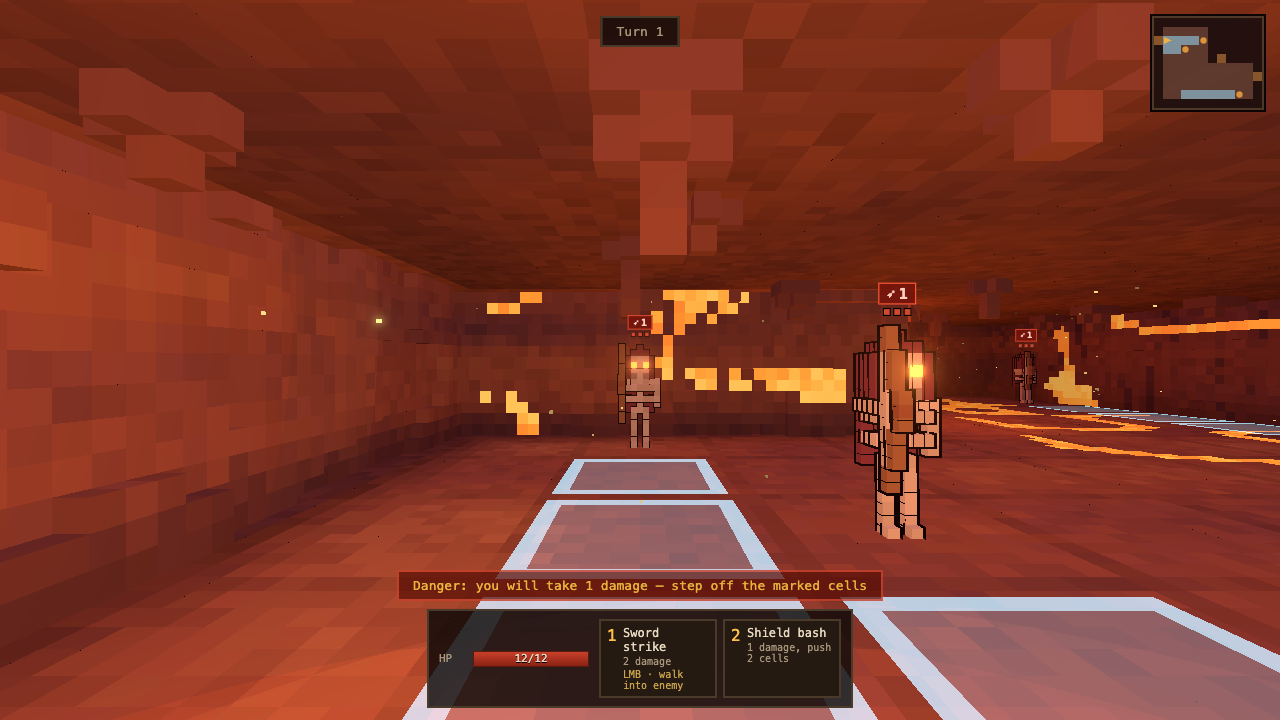
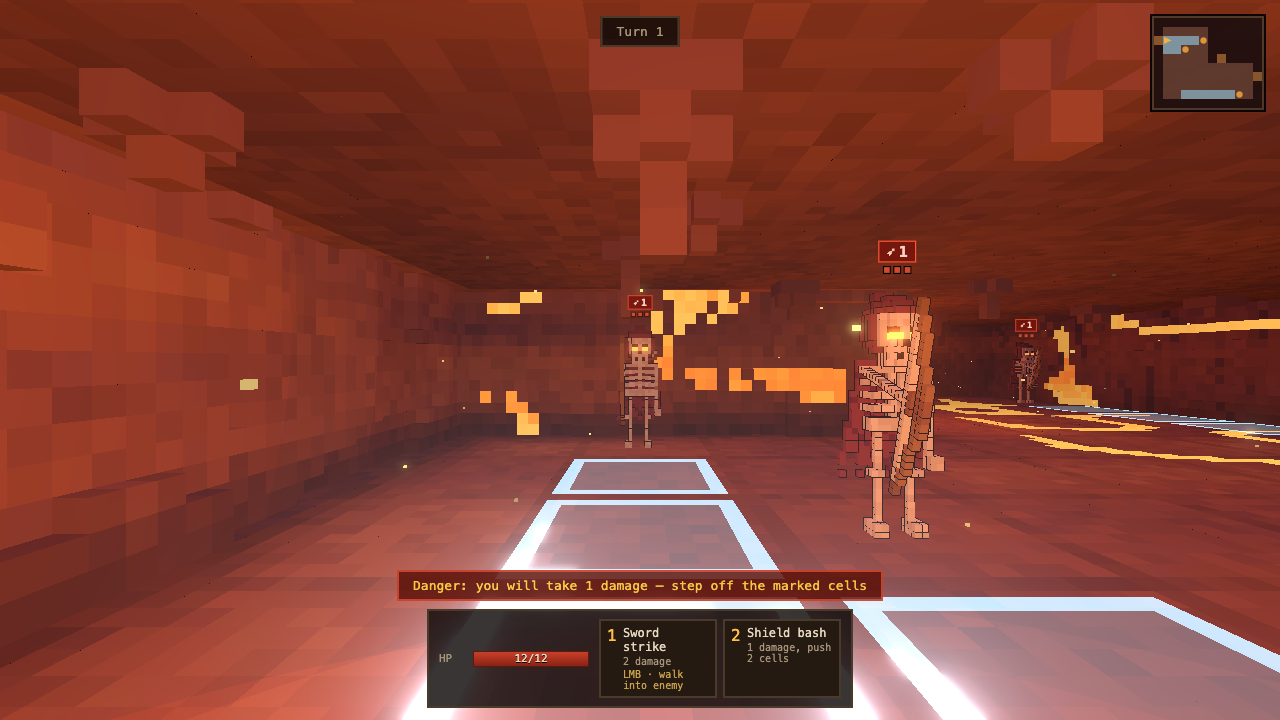
render: more detailed skeletons, thin outline
Models at 0.05 voxels (about twice the resolution): real leg bones, pelvis,
spine, ribcage, collarbones, a skull with sockets, nose and jaw; warrior with
helmet, pauldron, planked shield and long sword; archer with hood, ragged
cape, quiver and curved bow. The thick black outline blurred the silhouette:
it is now a thin dark maroon line.

diff --git a/src/render/voxel/models.ts b/src/render/voxel/models.ts
@@ -25,99 +25,195 @@ export interface VoxelModel {
   readonly poses: { readonly idle: number; readonly windup: number; readonly strike: number };
 }
 
-const BONE = [1, 2, 3];
-const DARK_BONE = 4;
+/** About 34 voxels from feet to crown: roughly 1.7 world units. */
+const VOXEL = 0.05;
+
+// Palette indices.
+const BONE = [1, 2, 3] as const;
+const BONE_DARK = 4;
 const STEEL = 5;
-const LEATHER = 6;
-const IRON = 7;
-const RUST = 8;
-const CLOTH = 9;
-const WOOD = 10;
-const STRING = 11;
-const FEATHER = 12;
+const STEEL_EDGE = 6;
+const LEATHER = 7;
+const IRON = 8;
+const RUST = 9;
+const CLOTH = 10;
+const CLOTH_DARK = 11;
+const WOOD = 12;
+const WOOD_DARK = 13;
+const STRING = 14;
+const FEATHER = 15;
+const SOCKET = 16;
 
 const PALETTE: readonly Rgb[] = [
   [0, 0, 0],
-  [0.86, 0.78, 0.62],
+  [0.86, 0.79, 0.64],
   [0.78, 0.7, 0.55],
-  [0.92, 0.85, 0.7],
-  [0.5, 0.42, 0.33],
-  [0.66, 0.64, 0.7],
-  [0.38, 0.16, 0.08],
-  [0.26, 0.24, 0.28],
-  [0.46, 0.2, 0.09],
-  [0.3, 0.07, 0.1],
-  [0.42, 0.22, 0.1],
-  [0.8, 0.75, 0.6],
-  [0.7, 0.62, 0.5],
+  [0.93, 0.87, 0.72],
+  [0.46, 0.38, 0.29],
+  [0.68, 0.67, 0.73],
+  [0.9, 0.9, 0.95],
+  [0.36, 0.16, 0.08],
+  [0.25, 0.23, 0.27],
+  [0.48, 0.22, 0.1],
+  [0.32, 0.07, 0.1],
+  [0.2, 0.04, 0.07],
+  [0.44, 0.23, 0.1],
+  [0.3, 0.14, 0.06],
+  [0.82, 0.77, 0.62],
+  [0.72, 0.64, 0.52],
+  [0.08, 0.03, 0.03],
 ];
 
-const boneAt = (x: number, y: number, z: number) => BONE[Math.floor(hash3(x + 20, y + 20, z + 20) * 3)] as number;
+/** Collects voxels by position; later writes replace earlier ones. */
+class Shape {
+  private readonly cells = new Map<string, ModelVoxel>();
 
-/** The shared skeleton: legs, pelvis, spine, ribs, shoulders, one arm (the other is a part), skull. */
-function skeleton(staticArmX: number): { body: ModelVoxel[]; eyes: [number, number, number][] } {
-  const body: ModelVoxel[] = [];
-  const bone = (x: number, y: number, z: number) => body.push([x, y, z, boneAt(x, y, z)]);
-  for (let y = 0; y < 6; y++) {
-    bone(-1, y, 0);
-    bone(1, y, 0);
+  set(x: number, y: number, z: number, c: number): void {
+    this.cells.set(`${x},${y},${z}`, [x, y, z, c]);
   }
-  bone(-1, 0, 1);
-  bone(1, 0, 1);
-  for (let x = -1; x <= 1; x++) bone(x, 6, 0);
-  for (let y = 7; y < 12; y++) bone(0, y, 0);
-  for (const y of [8, 10]) {
-    for (let x = -2; x <= 2; x++) bone(x, y, 1);
-    for (const x of [-2, 2]) {
-      bone(x, y, 0);
-      bone(x, y, -1);
+
+  clear(x: number, y: number, z: number): void {
+    this.cells.delete(`${x},${y},${z}`);
+  }
+
+  box(x0: number, x1: number, y0: number, y1: number, z0: number, z1: number, c: number | (() => number)): void {
+    for (let y = y0; y <= y1; y++)
+      for (let z = z0; z <= z1; z++) for (let x = x0; x <= x1; x++) this.set(x, y, z, typeof c === 'number' ? c : c());
+  }
+
+  /** Bone-coloured box with slight per-voxel variation. */
+  bone(x0: number, x1: number, y0: number, y1: number, z0: number, z1: number): void {
+    for (let y = y0; y <= y1; y++)
+      for (let z = z0; z <= z1; z++) for (let x = x0; x <= x1; x++) this.set(x, y, z, boneAt(x, y, z));
+  }
+
+  voxels(): ModelVoxel[] {
+    return [...this.cells.values()];
+  }
+}
+
+const boneAt = (x: number, y: number, z: number) => BONE[Math.floor(hash3(x + 40, y + 40, z + 40) * 3)] as number;
+
+/**
+ * The shared skeleton without its swinging arm: feet, shins, knees, thighs, pelvis, spine, ribcage,
+ * collarbones, the other arm, and a skull with sockets, nose hole and jaw.
+ */
+function skeleton(staticSide: 1 | -1): { body: Shape; eyes: [number, number, number][] } {
+  const s = new Shape();
+  for (const side of [-1, 1]) {
+    const x0 = side < 0 ? -3 : 2;
+    s.bone(x0 - (side < 0 ? 1 : 0), x0 + (side > 0 ? 1 : 0), 0, 1, -1, 2); // foot
+    s.bone(x0, x0, 2, 8, 0, 0); // shin
+    s.bone(x0 - 1 + (side > 0 ? 1 : 0), x0 + (side > 0 ? 1 : 0), 9, 9, 0, 1); // knee
+    s.bone(x0, x0, 10, 15, 0, 0); // thigh
+  }
+  s.bone(-4, 4, 16, 17, -1, 1); // pelvis
+  s.clear(0, 16, 1);
+  s.clear(0, 17, 1);
+  for (let y = 16; y <= 25; y++) {
+    s.set(0, y, -1, boneAt(0, y, -1)); // spine
+    if (y % 2 === 0) s.set(0, y, -2, BONE_DARK); // vertebra spurs
+  }
+  for (const y of [19, 21, 23]) {
+    // Ribs: a ring around the chest, open at the front except for the sternum.
+    for (let x = -4; x <= 4; x++) {
+      s.set(x, y, -2, boneAt(x, y, -2));
+      if (Math.abs(x) >= 2) s.set(x, y, 2, boneAt(x, y, 2));
+    }
+    for (let z = -1; z <= 1; z++) {
+      s.set(-4, y, z, boneAt(-4, y, z));
+      s.set(4, y, z, boneAt(4, y, z));
     }
   }
-  for (let x = -3; x <= 3; x++) bone(x, 11, 0);
-  for (let y = 7; y < 11; y++) bone(staticArmX, y, 0);
-  const eyes: [number, number, number][] = [
-    [-1, 14, 1],
-    [1, 14, 1],
-  ];
-  for (let x = -1; x <= 1; x++)
-    for (let y = 12; y < 16; y++)
-      for (let z = -1; z <= 1; z++) {
-        if (z === 1 && y === 14 && x !== 0) continue; // eye sockets
-        if (z === 1 && y === 12 && x !== 0) {
-          body.push([x, y, z, DARK_BONE]); // teeth shadow
-          continue;
-        }
-        bone(x, y, z);
+  s.bone(0, 0, 19, 24, 2, 2); // sternum
+  s.bone(-5, 5, 25, 25, 0, 0); // collarbones
+  s.bone(0, 0, 26, 26, -1, 0); // neck
+  // Static arm: upper arm, elbow, forearm, hand.
+  const ax = staticSide * 5;
+  s.bone(ax, ax, 19, 24, 0, 0);
+  s.set(ax, 18, 0, BONE_DARK);
+  s.bone(ax, ax, 12, 17, 0, 0);
+  s.bone(Math.min(ax, ax + staticSide), Math.max(ax, ax + staticSide), 10, 11, 0, 1);
+
+  // Skull: a rounded block with sockets, nose hole and a jaw with teeth.
+  for (let y = 28; y <= 34; y++)
+    for (let z = -3; z <= 3; z++)
+      for (let x = -3; x <= 3; x++) {
+        const corner = (Math.abs(x) === 3 ? 1 : 0) + (Math.abs(z) === 3 ? 1 : 0) + (y === 28 || y === 34 ? 1 : 0);
+        if (corner >= 2) continue;
+        s.set(x, y, z, boneAt(x, y, z));
       }
-  return { body, eyes };
+  // Eye sockets: the glowing eye fills the lower half, the upper half is a dark recess.
+  for (const ex of [-2, -1, 1, 2]) {
+    s.clear(ex, 30, 3);
+    s.clear(ex, 31, 3);
+    s.set(ex, 31, 2, SOCKET);
+  }
+  s.set(0, 29, 3, SOCKET); // nose
+  s.bone(-2, 2, 26, 27, 0, 3); // jaw
+  for (let x = -2; x <= 2; x++) s.set(x, 27, 3, x % 2 === 0 ? BONE[2] : SOCKET); // teeth
+  s.clear(-2, 26, 3);
+  s.clear(2, 26, 3);
+  const eyes: [number, number, number][] = [
+    [-2, 30, 3],
+    [-1, 30, 3],
+    [1, 30, 3],
+    [2, 30, 3],
+  ];
+  return { body: s, eyes };
+}
+
+/** Upper arm, elbow, forearm and hand hanging from the pivot (shoulder at 0,0,0). */
+function armBones(s: Shape, side: number): void {
+  for (let y = -1; y >= -6; y--) s.set(0, y, 0, boneAt(side * 5, y, 0));
+  s.set(0, -7, 0, BONE_DARK);
+  for (let y = -8; y >= -13; y--) s.set(0, y, 0, boneAt(side * 5, y, 1));
+  s.box(0, 0, -15, -14, -1, 1, LEATHER); // gripping hand, wrapped
 }
 
 function warrior(): VoxelModel {
-  const { body, eyes } = skeleton(-3);
-  // Rusty helmet with a nose guard.
-  for (let x = -1; x <= 1; x++) for (let z = -1; z <= 1; z++) body.push([x, 16, z, IRON]);
-  for (const x of [-2, 2]) for (let z = -1; z <= 1; z++) body.push([x, 15, z, IRON]);
-  for (let x = -1; x <= 1; x++) body.push([x, 15, -2, IRON]);
-  body.push([0, 15, 2, RUST], [0, 14, 2, RUST]);
-  // Round shield on the left forearm.
-  for (let y = 6; y <= 11; y++)
-    for (let z = -2; z <= 3; z++) {
-      const r = Math.hypot(y - 8.5, z - 0.5);
-      if (r > 3) continue;
-      body.push([-4, y, z, r < 1 ? IRON : r > 2.3 ? IRON : RUST]);
+  const { body, eyes } = skeleton(-1);
+  // Helmet: rusted dome with a rim and a nose guard.
+  for (let y = 33; y <= 36; y++)
+    for (let z = -4; z <= 3; z++)
+      for (let x = -4; x <= 4; x++) {
+        const r = Math.hypot(x / 4.2, (z + 0.5) / 4, (y - 32) / 4.6);
+        if (r > 1 || r < 0.72) continue;
+        body.set(x, y, z, (x + z) % 3 === 0 ? RUST : IRON);
+      }
+  for (let x = -4; x <= 4; x++) for (const z of [-4, 3]) body.set(x, 32, z, IRON);
+  for (let z = -3; z <= 2; z++) for (const x of [-4, 4]) body.set(x, 32, z, IRON);
+  body.box(0, 0, 28, 32, 4, 4, RUST);
+  // Pauldron on the sword shoulder.
+  body.box(4, 7, 25, 26, -2, 2, IRON);
+  body.box(5, 7, 24, 24, -2, 2, RUST);
+  // Round shield on the left forearm: planks, iron rim, central boss.
+  for (let y = 9; y <= 22; y++)
+    for (let z = -6; z <= 8; z++) {
+      const r = Math.hypot(y - 15.5, z - 1);
+      if (r > 6.8) continue;
+      const c = r > 5.9 ? IRON : r < 1.6 ? RUST : Math.floor(z + 20) % 3 === 0 ? WOOD_DARK : WOOD;
+      body.set(-7, y, z, c);
+      if (r < 1.2) body.set(-8, y, z, IRON);
     }
-  // Sword arm: upper arm and forearm, hand, crossguard, blade continuing past the hand.
-  const arm: ModelVoxel[] = [];
-  for (let y = -1; y >= -4; y--) arm.push([0, y, 0, boneAt(3, y, 0)]);
-  arm.push([0, -5, 0, LEATHER]);
-  for (const z of [-1, 1]) arm.push([0, -6, z, IRON]);
-  arm.push([0, -6, 0, IRON]);
-  for (let y = -7; y >= -14; y--) arm.push([0, y, 0, STEEL]);
+  // Sword arm: bones, crossguard, grip, long blade with a bright edge.
+  const arm = new Shape();
+  armBones(arm, 1);
+  arm.box(0, 0, -16, -16, -3, 3, IRON);
+  arm.set(0, -16, -4, RUST);
+  arm.set(0, -16, 4, RUST);
+  for (let y = -17; y >= -33; y--) {
+    arm.set(0, y, 0, STEEL);
+    arm.set(0, y, 1, y < -31 ? STEEL_EDGE : STEEL);
+    arm.set(0, y, -1, STEEL_EDGE);
+  }
+  arm.clear(0, -33, 1);
+  arm.clear(0, -33, -1);
   return {
-    voxel: 0.088,
+    voxel: VOXEL,
     palette: PALETTE,
-    body,
-    arm: { pivot: [3, 11, 0], voxels: arm },
+    body: body.voxels(),
+    arm: { pivot: [5, 25, 0], voxels: arm.voxels() },
     eyes,
     // Guard stance with the blade forward-down, sword raised overhead, chop through to the front.
     poses: { idle: -0.9, windup: -2.8, strike: -0.55 },
@@ -125,34 +221,52 @@ function warrior(): VoxelModel {
 }
 
 function archer(): VoxelModel {
-  const { body, eyes } = skeleton(3);
-  // Hood: a cloth shell around the skull, open at the front.
-  for (let y = 12; y <= 16; y++)
-    for (let x = -2; x <= 2; x++)
-      for (let z = -2; z <= 1; z++) {
-        const shell = Math.abs(x) === 2 || z === -2 || y === 16;
-        if (!shell || (y === 16 && Math.abs(x) === 2)) continue;
-        body.push([x, y, z, CLOTH]);
+  const { body, eyes } = skeleton(1);
+  // Hood: a cloth shell around the skull, open at the face, with a point at the back.
+  for (let y = 27; y <= 36; y++)
+    for (let z = -5; z <= 3; z++)
+      for (let x = -5; x <= 5; x++) {
+        const r = Math.hypot(x / 4.6, (z + 0.6) / 4.4, (y - 31.5) / 4.8);
+        if (r > 1 || r < 0.8) continue;
+        if (z >= 2 && y <= 33 && Math.abs(x) <= 3) continue; // face opening
+        body.set(x, y, z, y > 34 ? CLOTH_DARK : CLOTH);
       }
-  body.push([0, 17, -1, CLOTH], [0, 17, 0, CLOTH]);
-  // Cape down the back.
-  for (let y = 6; y <= 11; y++) for (let x = -2; x <= 2; x++) body.push([x, y, -2, CLOTH]);
-  // Quiver with fletchings.
-  for (let y = 8; y <= 13; y++) body.push([1, y, -3, LEATHER], [2, y, -3, LEATHER]);
-  body.push([1, 14, -3, FEATHER], [2, 15, -3, FEATHER], [1, 15, -3, FEATHER]);
+  body.box(-1, 1, 35, 37, -5, -4, CLOTH_DARK);
+  // Cape from the shoulders, widening down the back, with a ragged hem.
+  for (let y = 8; y <= 26; y++) {
+    const half = 4 + Math.floor((26 - y) / 5);
+    for (let x = -half; x <= half; x++) {
+      if (y < 12 && hash3(x, y, 9) < 0.35 + (12 - y) * 0.12) continue;
+      body.set(x, y, -4, (x + y) % 5 === 0 ? CLOTH_DARK : CLOTH);
+    }
+  }
+  // Quiver slung across the back with arrow fletchings.
+  for (let y = 15; y <= 27; y++) {
+    const qx = 1 + Math.floor((y - 15) / 4);
+    body.box(qx, qx + 1, y, y, -6, -5, LEATHER);
+  }
+  for (const [fx, fy] of [
+    [4, 28],
+    [5, 29],
+    [3, 29],
+    [4, 30],
+  ] as const)
+    body.set(fx, fy, -5, FEATHER);
   // Bow arm: the bow lies across the hand (along local Z), so it stands upright when the arm points forward.
-  const arm: ModelVoxel[] = [];
-  for (let y = -1; y >= -4; y--) arm.push([0, y, 0, boneAt(-3, y, 0)]);
-  for (let z = -6; z <= 6; z++) {
-    const bend = Math.round(1.6 * (1 - (z / 6) ** 2));
-    arm.push([0, -5 - bend, z, z === 0 ? LEATHER : WOOD]);
-    if (bend > 0 && Math.abs(z) < 6) arm.push([0, -5, z, STRING]);
+  const arm = new Shape();
+  armBones(arm, -1);
+  for (let z = -13; z <= 13; z++) {
+    const bend = Math.round(3 * (1 - (z / 13) ** 2));
+    const c = Math.abs(z) <= 1 ? LEATHER : Math.abs(z) > 11 ? WOOD_DARK : WOOD;
+    arm.set(0, -14 - bend, z, c);
+    if (Math.abs(z) < 4) arm.set(0, -15 - bend, z, c); // thicker grip
+    if (bend > 0 && Math.abs(z) < 13) arm.set(0, -14, z, STRING);
   }
   return {
-    voxel: 0.088,
+    voxel: VOXEL,
     palette: PALETTE,
-    body,
-    arm: { pivot: [-3, 11, 0], voxels: arm },
+    body: body.voxels(),
+    arm: { pivot: [-5, 25, 0], voxels: arm.voxels() },
     eyes,
     // Bow low at the side, raised and aimed, small recoil after the shot.
     poses: { idle: -0.35, windup: -1.57, strike: -1.35 },

diff --git a/src/render/unitsView.ts b/src/render/unitsView.ts
@@ -70,7 +70,7 @@ export interface UnitVisual {
   rig: Rig | null;
 }
 
-const outlineMaterial = new THREE.MeshBasicMaterial({ color: 0x0c0203, side: THREE.BackSide });
+const outlineMaterial = new THREE.MeshBasicMaterial({ color: 0x2a0a08, side: THREE.BackSide });
 const eyeMaterial = new THREE.MeshBasicMaterial({ color: new THREE.Color(3.2, 0.75, 0.12) });
 
 export class UnitsView {

diff --git a/src/render/modelMesh.ts b/src/render/modelMesh.ts
@@ -5,7 +5,7 @@ import { createVolume, greedyMesh, setVoxel } from './voxel/mesher';
 import type { ModelVoxel, VoxelModel } from './voxel/models';
 
 /** Outline shell thickness: each surface voxel gets a dark back-faced cube this much larger. */
-const OUTLINE_SCALE = 1.32;
+const OUTLINE_SCALE = 1.16;
 
 export interface PartGeometry {
   readonly mesh: THREE.BufferGeometry;

diff --git a/docs/ROADMAP.md b/docs/ROADMAP.md
@@ -131,7 +131,7 @@
 2. Воксельная пещера по сиду (воксель 0,2, по 10 на клетку): слои породы, неровные стены со сколами, круглые колонны с утолщениями, сталактиты, арочные двери с досками и жаровнями. Жадное объединение граней: ~20 тыс. граней на комнату, сборка ~25 мс.
 3. Ямы — лавовые озёра чуть ниже пола с переливающейся поверхностью и светом; тонкие лавовые прожилки на полу и стенах.
 4. Toon-свет в 4 полосы, полусферический свет «фиолетовый/бордовый», факел игрока, свет жаровен и лавы с мерцанием, тёплый туман, свечение (bloom) из штатных дополнений three.js — новых зависимостей нет.
-5. Воксельные скелеты: воин (шлем, щит, меч), лучник (капюшон, плащ, колчан, лук), светящиеся глаза, тёмный контур. Поворачиваются по направлению, поднимают оружие, пока висит намерение, бьют/стреляют (летит стрела), вздрагивают и вспыхивают от попадания, рассыпаются на воксели при смерти, тонут в лаве с брызгами искр.
+5. Воксельные скелеты (воксель 0,05, ~34 по высоте — детализация повышена по замечанию владелицы после приёмки): кости ног, таз, позвоночник, рёбра, череп с глазницами и челюстью; воин (шлем с наносником, наплечник, деревянный щит с оковкой, меч), лучник (капюшон, рваный плащ, колчан, лук), светящиеся глаза, тонкий тёмно-бордовый контур. Поворачиваются по направлению, поднимают оружие, пока висит намерение, бьют/стреляют (летит стрела), вздрагивают и вспыхивают от попадания, рассыпаются на воксели при смерти, тонут в лаве с брызгами искр.
 6. Искры в воздухе и огонь в жаровнях.
 7. Подсказки боя холодного цвета: клетки удара — бледно-голубые рамки, цель — золотая, путь толчка — голубые точки; на мини-карте лава оранжевая, удары голубые.
 8. Дебаг-меню: «Графика: высокая/низкая» (низкая — без свечения и искр, плотность 1×), выбор запоминается в браузере.
